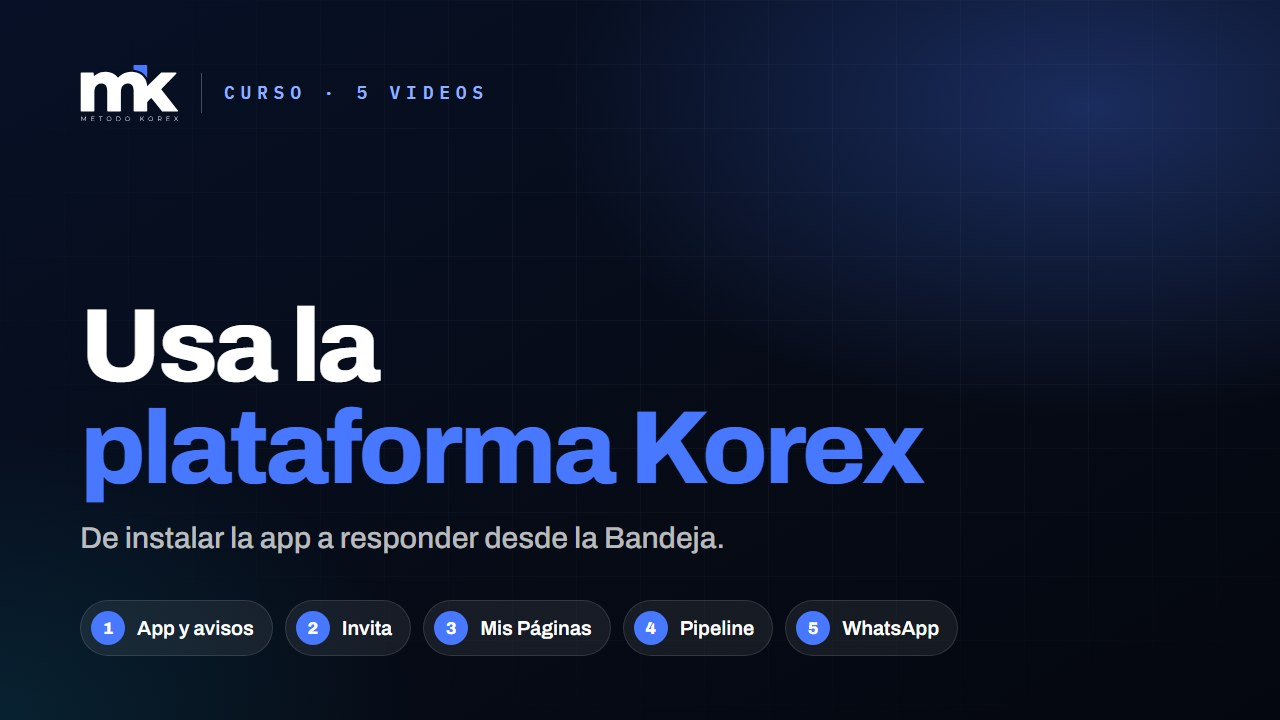
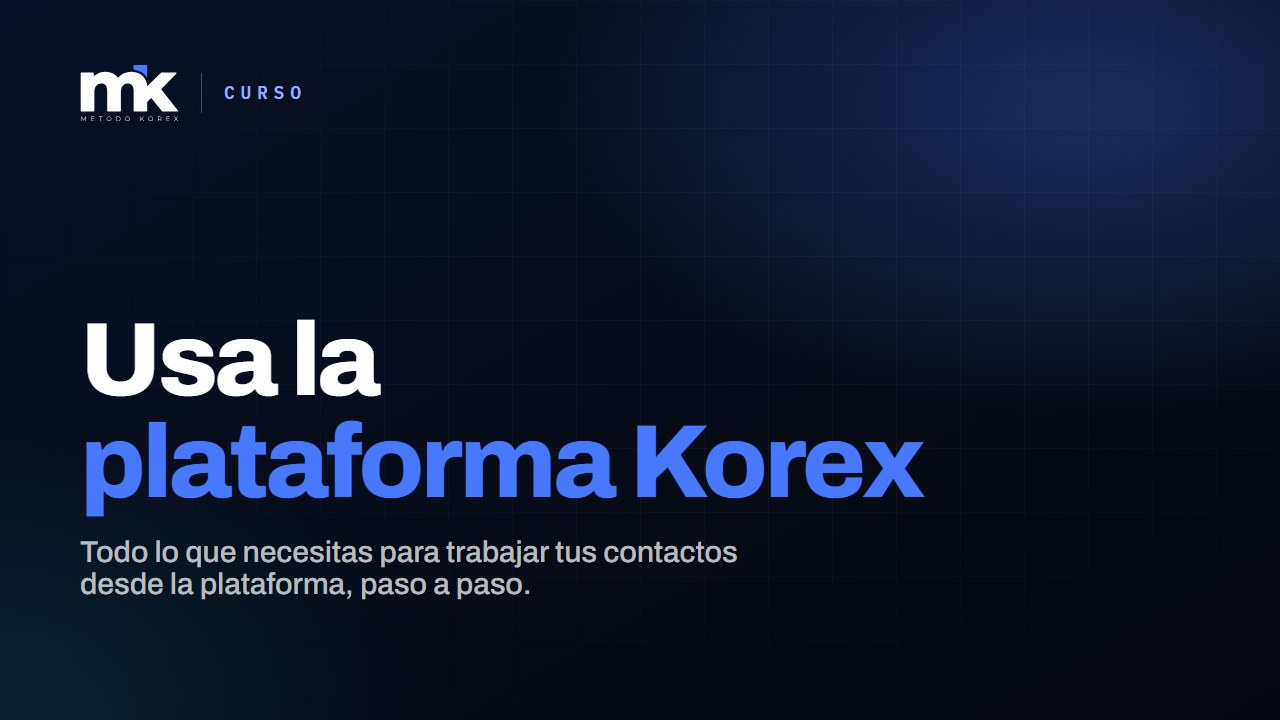
Academia: ordenar links, guiones y cursos con flechas; descripción con links al abrir el video; portada sin conteo

Changed region(s): [[0.0625, 0.4278, 0.75, 0.9167], [0.2812, 0.1222, 0.375, 0.1528]]

diff --git a/academia/academia.js b/academia/academia.js
@@ -116,7 +116,7 @@
   function cursos() { return grupos(de("video").map(function (v) { return Object.assign({}, v, { grupo: cursoDe(v) }); })).map(function (g) { return g[0]; }); }
   function lecciones(nombre) { return de("video").filter(function (v) { return cursoDe(v) === nombre; }); }
   // Portadas diseñadas por curso (archivos en /academia/portadas/). Sin portada → imagen del primer video que tenga.
-  var PORTADAS = { "Usa la plataforma Korex": "/academia/portadas/usa-la-plataforma-korex.jpg" };
+  var PORTADAS = { "Usa la plataforma Korex": "/academia/portadas/usa-la-plataforma-korex.jpg?v=2" };
   function portada(c) { var ls = lecciones(c); return { miniatura: PORTADAS[c] || (ls.filter(function (v) { return v.miniatura; })[0] || {}).miniatura }; }
   function poster(v, extra) { return '<div class="poster"' + (v && v.miniatura ? ' style="background-image:url(\'' + esc(v.miniatura) + '\'),linear-gradient(140deg,#0a1730,#18306a)"' : "") + ">" + (extra || "") + "</div>"; }
   function nVideos(n) { return n + (n === 1 ? " video" : " videos"); }
@@ -139,13 +139,13 @@
   function vCurso(c) {
     var ls = lecciones(c);
     var h = '<button class="back" data-volver type="button">' + ic("back") + "Cursos</button>" +
-      '<div class="h2"><h2>' + esc(c) + "</h2>" + (admin() ? '<button class="btn sec" data-renombrar type="button">' + ic("pen") + "Renombrar curso</button>" : "") + "</div>" +
+      '<div class="h2"><h2>' + esc(c) + "</h2>" + (admin() ? flechasGrupo("video", c) + '<button class="btn sec" data-renombrar type="button">' + ic("pen") + "Renombrar curso</button>" : "") + "</div>" +
       '<p class="intro">' + nVideos(ls.length) + ". Míralos en orden.</p>";
     h += '<ol class="lecs">';
     ls.forEach(function (v, i) {
       h += '<li class="lec"><button class="lec-b" type="button" data-ver="' + esc(v.id) + '">' + '<span class="lec-n">' + (i + 1) + "</span>" +
         poster(v, '<span class="play">' + ic("play") + "</span>") +
-        '<span class="lec-t"><b>' + esc(v.titulo) + "</b>" + (v.descripcion ? "<span>" + esc(v.descripcion) + "</span>" : "") + "</span></button>" +
+        '<span class="lec-t"><b>' + esc(v.titulo) + "</b>" + (v.descripcion ? "<span>" + esc(String(v.descripcion).split("\n")[0]) + "</span>" : "") + "</span></button>" +
         (admin() ? '<div class="lec-a">' +
           (i > 0 ? '<button class="mini ico" data-mover="' + esc(v.id) + '" data-dir="-1" title="Subir">' + ic("arr") + "</button>" : "") +
           (i < ls.length - 1 ? '<button class="mini ico" data-mover="' + esc(v.id) + '" data-dir="1" title="Bajar">' + ic("abj") + "</button>" : "") +
@@ -157,20 +157,49 @@
     return h;
   }
 
-  // Reordena dentro del curso: renumera todo el curso (10, 20, 30…) a partir de su primer orden.
-  function mover(id, dir) {
-    var v = porId(id); if (!v) return;
-    var ls = lecciones(cursoDe(v)), i = ls.indexOf(v), j = i + dir;
-    if (j < 0 || j >= ls.length) return;
-    var base = Math.min.apply(null, ls.map(function (x) { return x.orden || 0; }));
-    ls.splice(i, 1); ls.splice(j, 0, v);
+  /* ---------------- ordenar (admin) ----------------
+     Videos, links y guiones: el orden de los grupos lo da su primer elemento.
+     Al mover, se renumera la sección entera: grupo 1 → 1000, 1010…; grupo 2 → 2000…  */
+  function claveG(x) { return x.seccion === "video" ? cursoDe(x) : (x.grupo || "Otros"); }
+  function gruposSec(sec) {
+    var m = {}, o = [];
+    de(sec).forEach(function (x) { var g = claveG(x); if (!m[g]) { m[g] = []; o.push(g); } m[g].push(x); });
+    return o.map(function (g) { return [g, m[g]]; });
+  }
+  function renumerar(gs) {
     var cambios = [];
-    ls.forEach(function (x, k) { var o = base + k * 10; if (x.orden !== o) { x.orden = o; cambios.push({ id: x.id, titulo: x.titulo, orden: o }); } });
+    gs.forEach(function (g, gi) { g[1].forEach(function (x, ii) { var o = (gi + 1) * 1000 + ii * 10; if (x.orden !== o) { x.orden = o; cambios.push({ id: x.id, titulo: x.titulo, orden: o }); } }); });
     S.items.sort(function (a, b) { return (a.orden || 0) - (b.orden || 0); });
     render();
     Promise.all(cambios.map(function (it) { return api("guardar", { item: it }); })).then(function (rs) {
       if (rs.some(function (r) { return !r.ok; })) { toast("No se pudo guardar el orden."); recargar(); }
-    });
+    }, function () { toast("No se pudo guardar el orden."); recargar(); });
+  }
+  function mover(id, dir) {
+    var v = porId(id); if (!v) return;
+    var gs = gruposSec(v.seccion), g = gs.filter(function (x) { return x[0] === claveG(v); })[0];
+    var ls = g[1], i = ls.indexOf(v), j = i + dir;
+    if (j < 0 || j >= ls.length) return;
+    ls.splice(i, 1); ls.splice(j, 0, v);
+    renumerar(gs);
+  }
+  function moverGrupo(sec, nombre, dir) {
+    var gs = gruposSec(sec), i = -1;
+    gs.forEach(function (g, k) { if (g[0] === nombre) i = k; });
+    var j = i + dir; if (i < 0 || j < 0 || j >= gs.length) return;
+    var g = gs.splice(i, 1)[0]; gs.splice(j, 0, g);
+    renumerar(gs);
+  }
+  // Flechas: item (data-mover) o grupo (data-mgrupo). Ocultas mientras se busca.
+  function flechas(attr, i, n, extra) {
+    if (!admin() || S.q || n < 2) return "";
+    return (i > 0 ? '<button class="mini ico" ' + attr + ' data-dir="-1" ' + (extra || "") + ' title="Subir" type="button">' + ic("arr") + "</button>" : "") +
+      (i < n - 1 ? '<button class="mini ico" ' + attr + ' data-dir="1" ' + (extra || "") + ' title="Bajar" type="button">' + ic("abj") + "</button>" : "");
+  }
+  function flechasGrupo(sec, nombre) {
+    var gs = gruposSec(sec), i = -1; gs.forEach(function (g, k) { if (g[0] === nombre) i = k; });
+    var f = flechas('data-mgrupo="' + esc(nombre) + '"', i, gs.length, 'data-sec="' + sec + '"');
+    return f ? '<span class="gmove" title="Mover grupo">' + f + "</span>" : "";
   }
 
   function renombrar(c) {
@@ -245,9 +274,9 @@
     h += '<div class="gg">';
     gs.forEach(function (g, i) {
       var open = S.q || S.abiertos[g[0]] || (S.abiertos[g[0]] === undefined && i === 0);
-      h += '<section class="grp' + (open ? " open" : "") + '"><button class="grp-h" data-grupo="' + esc(g[0]) + '" type="button">' + ic("chev", "chev") + esc(g[0]) + "<em>" + g[1].length + '</em></button><div class="grp-b">';
-      g[1].forEach(function (x) {
-        h += '<article class="gcard"><div class="gcard-h"><b>' + esc(x.titulo) + "</b>" +
+      h += '<section class="grp' + (open ? " open" : "") + '"><div class="grp-top"><button class="grp-h" data-grupo="' + esc(g[0]) + '" type="button">' + ic("chev", "chev") + esc(g[0]) + "<em>" + g[1].length + "</em></button>" + flechasGrupo("guion", g[0]) + '</div><div class="grp-b">';
+      g[1].forEach(function (x, xi) {
+        h += '<article class="gcard"><div class="gcard-h"><b>' + esc(x.titulo) + "</b>" + flechas('data-mover="' + esc(x.id) + '"', xi, g[1].length) +
           (admin() ? '<button class="mini ico" data-editar="' + esc(x.id) + '" title="Editar" type="button">' + ic("pen") + '</button><button class="mini ico del" data-borrar="' + esc(x.id) + '" title="Borrar" type="button">' + ic("trash") + "</button>" : "") +
           '<button class="mini btn-copy" data-copiar="' + esc(x.id) + '" type="button">' + ic("copy") + "Copiar</button></div>" +
           '<p class="gtxt">' + esc(x.texto) + "</p></article>";
@@ -263,10 +292,11 @@
     var gs = grupos(l);
     if (!gs.length) return h + '<div class="empty">' + (S.q ? "No hay links con esa búsqueda." : "Todavía no hay links.") + "</div>";
     gs.forEach(function (g) {
-      h += '<section class="lgrp"><div class="lgrp-h">' + esc(g[0]) + "</div>";
-      g[1].forEach(function (x) {
+      h += '<section class="lgrp"><div class="lgrp-h"><span>' + esc(g[0]) + "</span>" + flechasGrupo("link", g[0]) + "</div>";
+      g[1].forEach(function (x, xi) {
         h += '<div class="lrow"><span class="lic">' + ic("link") + '</span><div class="lt"><b>' + esc(x.titulo) + "</b>" + (x.descripcion ? "<span>" + esc(x.descripcion) + "</span>" : "") + "<code>" + esc(corta(x.url)) + "</code></div>" +
           '<div class="la"><a class="mini" href="' + esc(x.url) + '" target="_blank" rel="noopener">' + ic("ext") + 'Abrir</a><button class="mini" data-copiar="' + esc(x.id) + '" type="button">' + ic("copy") + "Copiar</button>" +
+          flechas('data-mover="' + esc(x.id) + '"', xi, g[1].length) +
           (admin() ? '<button class="mini ico" data-editar="' + esc(x.id) + '" title="Editar" type="button">' + ic("pen") + '</button><button class="mini ico del" data-borrar="' + esc(x.id) + '" title="Borrar" type="button">' + ic("trash") + "</button>" : "") +
           "</div></div>";
       });
@@ -277,11 +307,12 @@
 
   /* ---------------- eventos ---------------- */
   document.addEventListener("click", function (e) {
-    var t = e.target.closest("[data-tab],[data-abrir],[data-volver],[data-filtro],[data-ver],[data-bajar],[data-copiar],[data-grupo],[data-nuevo],[data-editar],[data-borrar],[data-subir],[data-curso],[data-mover],[data-renombrar]");
+    var t = e.target.closest("[data-tab],[data-abrir],[data-volver],[data-filtro],[data-ver],[data-bajar],[data-copiar],[data-grupo],[data-nuevo],[data-editar],[data-borrar],[data-subir],[data-curso],[data-mover],[data-mgrupo],[data-renombrar]");
     if (!t || !$("#app").contains(t)) return;
     var d = t.dataset;
     if (d.curso) { S.curso = d.curso; S.q = ""; render(); window.scrollTo(0, 0); }
     else if (d.mover) mover(d.mover, +d.dir);
+    else if (d.mgrupo) moverGrupo(d.sec, d.mgrupo, +d.dir);
     else if ("renombrar" in d) renombrar(S.curso);
     else if (d.tab) { S.tab = d.tab; S.carpeta = null; S.curso = null; S.q = ""; try { sessionStorage.setItem("kx-academia-tab", d.tab); } catch (x) {} render(); window.scrollTo(0, 0); }
     else if (d.abrir) { S.carpeta = d.abrir; S.filtro = "todo"; S.q = ""; render(); window.scrollTo(0, 0); }
@@ -290,7 +321,7 @@
     else if (d.ver) ver(porId(d.ver));
     else if (d.bajar) bajar(porId(d.bajar), t);
     else if (d.copiar) copiar(porId(d.copiar), t);
-    else if (d.grupo) { var sec = t.parentNode; var abierto = !sec.classList.contains("open"); sec.classList.toggle("open", abierto); S.abiertos[d.grupo] = abierto; }
+    else if (d.grupo) { var sec = t.closest(".grp"); var abierto = !sec.classList.contains("open"); sec.classList.toggle("open", abierto); S.abiertos[d.grupo] = abierto; }
     else if (d.nuevo) formulario(d.nuevo, null);
     else if (d.editar) { var it = porId(d.editar); if (it) formulario(it.seccion, it); }
     else if (d.borrar) borrar(porId(d.borrar));
@@ -319,6 +350,12 @@
     if (/iframe\.mediadelivery\.net\/(embed|play)\//.test(u)) return u.replace("/play/", "/embed/") + (u.indexOf("?") > -1 ? "&" : "?") + "autoplay=true&preload=true&responsive=true";
     return u;
   }
+  // Texto con saltos de línea y links que se pueden tocar (se escapa primero).
+  function rico(t) {
+    return esc(t).replace(/(https?:\/\/[^\s<]+?)([.,;:!?)]*)(?=\s|$|<)/g, function (m, u, cola) {
+      return '<a href="' + u + '" target="_blank" rel="noopener">' + u.replace(/^https?:\/\/(www\.)?/, "") + "</a>" + cola;
+    }).replace(/\n/g, "<br>");
+  }
   function ver(x) {
     if (!x) return;
     var cuerpo = "", pie = "";
@@ -334,8 +371,9 @@
     if (x.seccion === "archivo" && x.descargable !== false && (x.descarga || x.url)) pie = '<div class="vw-f"><button class="btn" data-vbajar type="button">' + ic("down") + "Descargar</button></div>";
     var ls = x.seccion === "video" ? lecciones(cursoDe(x)) : [], pos = ls.indexOf(x);
     if (ls.length > 1) pie = '<div class="vw-f vw-nav"><button class="btn sec" data-vir="' + (pos - 1) + '" type="button"' + (pos > 0 ? "" : " disabled") + ">" + ic("back") + 'Anterior</button><span class="vw-pos">Video ' + (pos + 1) + " de " + ls.length + '</span><button class="btn" data-vir="' + (pos + 1) + '" type="button"' + (pos < ls.length - 1 ? "" : " disabled") + ">Siguiente" + ic("chev") + "</button></div>";
-    $("#layer").innerHTML = '<div class="viewer" role="dialog" aria-modal="true" aria-label="' + esc(x.titulo) + '"><div class="vw-h"><b>' + esc(x.titulo) + '</b><button class="mini ico" data-vcerrar type="button" aria-label="Cerrar">' + ic("x") + '</button></div><div class="vw-b">' + cuerpo + "</div>" +
-      (x.seccion === "video" && x.descripcion ? '<p class="vw-desc">' + esc(x.descripcion) + "</p>" : "") + pie + "</div>";
+    var conDesc = x.seccion === "video" && x.descripcion;
+    $("#layer").innerHTML = '<div class="viewer' + (conDesc ? " cd" : "") + '" role="dialog" aria-modal="true" aria-label="' + esc(x.titulo) + '"><div class="vw-h"><b>' + esc(x.titulo) + '</b><button class="mini ico" data-vcerrar type="button" aria-label="Cerrar">' + ic("x") + '</button></div><div class="vw-b">' + cuerpo + "</div>" +
+      (conDesc ? pie + '<div class="vw-desc">' + rico(x.descripcion) + "</div>" : pie) + "</div>";
     document.body.style.overflow = "hidden";
     $("[data-vcerrar]").onclick = cerrar;
     var b = $("[data-vbajar]"); if (b) b.onclick = function () { bajar(x, b); };
@@ -417,7 +455,7 @@
     else if (sec === "carpeta") c = campo("fTitulo", "Nombre de la carpeta", it.titulo) + campo("fDesc", "Descripción (opcional)", it.descripcion);
     else if (sec === "video") {
       c = campo("fCurso", "Curso", nuevo ? (S.curso || "") : cursoDe(it), { lista: cursos(), ph: "Ej.: Primeros pasos", ayuda: "Elige un curso existente o escribe uno nuevo para crearlo." }) +
-        campo("fTitulo", "Título del video", it.titulo) + campo("fDesc", "Descripción (opcional)", it.descripcion);
+        campo("fTitulo", "Título del video", it.titulo) + campo("fDesc", "Descripción (opcional)", it.descripcion, { area: 1, ayuda: "Se ve debajo del video al abrirlo. Pega links a recursos o páginas: quedan para tocar. La primera línea sale también en la lista del curso." });
       if (nuevo) c += '<div class="opt" id="fModo"><button type="button" class="on" data-m="archivo">Subir un video</button><button type="button" data-m="link">Pegar un link</button></div>' +
         '<div id="mArchivo"><div class="drop" id="fDrop">' + ic("up") + '<b>Elige el video</b><small>MP4 o MOV. Se ve en la Academia y no se puede descargar.</small><input type="file" id="fFile" accept="video/*"></div></div>' +
         '<div id="mLink" hidden>' + campo("fUrl", "Link del video", "", { ph: "YouTube, Vimeo, Bunny o .mp4" }) + "</div>" +

diff --git a/academia/index.html b/academia/index.html
@@ -10,7 +10,7 @@
 <link rel="preconnect" href="https://fonts.googleapis.com">
 <link rel="preconnect" href="https://fonts.gstatic.com" crossorigin>
 <link rel="stylesheet" href="https://fonts.googleapis.com/css2?family=Archivo:wght@400;500;600;700&family=IBM+Plex+Mono:wght@500;600&family=Instrument+Serif&display=swap">
-<link rel="stylesheet" href="/academia/academia.css?v=6">
+<link rel="stylesheet" href="/academia/academia.css?v=8">
 </head>
 <body>
 <svg width="0" height="0" style="position:absolute" aria-hidden="true"><symbol id="mk" viewBox="283 389 515 302"><path fill="#4878ff" d="m598.95,429.17c-10.38-5.31-21.79-8.67-34.14-10.07-1.83-.21-3.23-1.72-3.23-3.56v-18.13c0-1.99,1.61-3.61,3.61-3.61h64.06c1.99,0,3.61,1.61,3.61,3.61v64.79c0,.23-.29.3-.4.1-8.13-14.72-19.42-25.86-33.5-33.13Z"/><path fill="currentColor" d="m789.86,636.8h-77.25c-1.08,0-2.11-.49-2.78-1.34l-53.34-66.8c-1.33-1.67-3.82-1.8-5.32-.27l-6,6.1-5.77,5.89-5.77,5.89-.77.77v46.01c0,1.97-1.59,3.56-3.56,3.56h-63.42c-1.97,0-3.56-1.59-3.56-3.56v-101.08c0-4.31-.23-8.27-.73-11.89-1.15-8.54-3.62-15.16-7.5-19.82-5.5-6.62-13.01-9.97-22.51-9.97-6.73,0-12.89,1.66-18.4,4.89-5.5,3.27-9.74,8.2-12.74,14.82-3,6.66-4.5,15.2-4.5,25.71v97.35c0,1.97-1.59,3.56-3.56,3.56h-64.15c-1.97,0-3.56-1.59-3.56-3.56v-101.08c0-14.51-2.69-25.09-8.08-31.71-5.39-6.62-12.93-9.97-22.71-9.97-7,0-13.2,1.66-18.55,4.89-5.39,3.27-9.66,8.2-12.78,14.82-3.12,6.66-4.7,15.2-4.7,25.71v97.35c0,1.97-1.59,3.56-3.56,3.56h-64.15c-1.97,0-3.56-1.59-3.56-3.56v-196.2c0-1.97,1.59-3.56,3.56-3.56h60.81c1.97,0,3.56,1.59,3.56,3.56v9.37c0,3.07,3.57,4.64,5.91,2.65,3.51-2.98,7.28-5.62,11.33-7.92,13.01-7.35,27.52-11.05,43.53-11.05,18.24,0,34.33,4.7,48.22,14.05,5.73,3.88,10.64,8.63,14.82,14.27,1.31,1.77,3.98,1.89,5.45.26,5-5.54,10.73-10.39,17.21-14.53,14.66-9.35,31.48-14.05,50.49-14.05,3.46,0,6.85.15,10.12.5,11.74,1.04,22.4,4.08,32.06,9.04,12.39,6.39,22.17,16.2,29.29,29.48,5.2,9.7,8.51,21.44,9.93,35.29v.08l5.2-5.04,5.12-4.96,61.42-59.8c.66-.65,1.56-1.01,2.48-1.01h74.58c3.14,0,4.74,3.78,2.56,6.04l-76.23,78.71c-1.24,1.28-1.34,3.28-.24,4.68l84.92,108.14c1.83,2.34.17,5.76-2.8,5.76Z"/><path fill="currentColor" d="m290.08,685.99v-23.17h2.02l10.59,18.07h-1.06l10.49-18.07h2.02v23.17h-2.35v-19.5h.56l-9.66,16.55h-1.16l-9.73-16.55h.63v19.5h-2.35Z"/><path fill="currentColor" d="m344.66,683.87h13.94v2.12h-16.38v-23.17h15.89v2.12h-13.44v18.93Zm-.26-10.69h12.25v2.09h-12.25v-2.09Z"/><path fill="currentColor" d="m389.38,685.99v-21.05h-8.14v-2.12h18.73v2.12h-8.14v21.05h-2.45Z"/><path fill="currentColor" d="m434.2,686.19c-1.75,0-3.36-.29-4.85-.88-1.49-.58-2.78-1.41-3.87-2.48-1.09-1.07-1.94-2.32-2.55-3.74-.61-1.42-.91-2.98-.91-4.68s.3-3.26.91-4.69c.61-1.42,1.46-2.67,2.55-3.74s2.38-1.9,3.85-2.48c1.48-.58,3.1-.88,4.87-.88s3.35.29,4.83.88c1.47.59,2.76,1.41,3.85,2.47,1.09,1.06,1.94,2.31,2.55,3.74s.91,3,.91,4.7-.3,3.26-.91,4.7-1.46,2.68-2.55,3.74c-1.09,1.06-2.38,1.88-3.85,2.46-1.48.59-3.09.88-4.83.88Zm0-2.18c1.39,0,2.67-.24,3.85-.71,1.18-.47,2.21-1.15,3.08-2.02.87-.87,1.55-1.89,2.04-3.04.48-1.16.73-2.43.73-3.82s-.24-2.66-.73-3.82c-.49-1.16-1.16-2.17-2.04-3.04-.87-.87-1.9-1.54-3.08-2.02-1.18-.47-2.46-.71-3.85-.71s-2.68.24-3.87.71c-1.19.48-2.22,1.15-3.1,2.02-.87.87-1.56,1.89-2.05,3.04-.5,1.16-.74,2.43-.74,3.82s.25,2.64.74,3.81,1.18,2.19,2.05,3.06c.87.87,1.9,1.55,3.1,2.02,1.19.47,2.48.71,3.87.71Z"/><path fill="currentColor" d="m472.36,685.99v-23.17h9.43c2.47,0,4.64.49,6.5,1.47,1.87.98,3.32,2.35,4.36,4.09,1.03,1.74,1.56,3.75,1.56,6.02s-.52,4.28-1.56,6.02c-1.04,1.74-2.49,3.11-4.36,4.09-1.86.98-4.03,1.47-6.5,1.47h-9.43Zm2.45-2.12h6.85c2.05,0,3.83-.4,5.35-1.21,1.51-.8,2.69-1.92,3.52-3.34.84-1.42,1.26-3.06,1.26-4.92s-.42-3.52-1.26-4.93c-.84-1.41-2.01-2.52-3.52-3.33-1.51-.81-3.29-1.21-5.35-1.21h-6.85v18.93Z"/><path fill="currentColor" d="m530.35,686.19c-1.75,0-3.36-.29-4.85-.88-1.49-.58-2.78-1.41-3.87-2.48-1.09-1.07-1.94-2.32-2.55-3.74-.61-1.42-.91-2.98-.91-4.68s.3-3.26.91-4.69c.61-1.42,1.46-2.67,2.55-3.74s2.38-1.9,3.85-2.48c1.48-.58,3.1-.88,4.87-.88s3.35.29,4.83.88c1.47.59,2.76,1.41,3.85,2.47,1.09,1.06,1.94,2.31,2.55,3.74s.91,3,.91,4.7-.3,3.26-.91,4.7-1.46,2.68-2.55,3.74c-1.09,1.06-2.38,1.88-3.85,2.46-1.48.59-3.09.88-4.83.88Zm0-2.18c1.39,0,2.67-.24,3.85-.71,1.18-.47,2.21-1.15,3.08-2.02.87-.87,1.55-1.89,2.04-3.04.48-1.16.73-2.43.73-3.82s-.24-2.66-.73-3.82c-.49-1.16-1.16-2.17-2.04-3.04-.87-.87-1.9-1.54-3.08-2.02-1.18-.47-2.46-.71-3.85-.71s-2.68.24-3.87.71c-1.19.48-2.22,1.15-3.1,2.02-.87.87-1.56,1.89-2.05,3.04-.5,1.16-.74,2.43-.74,3.82s.25,2.64.74,3.81c.5,1.17,1.18,2.19,2.05,3.06.87.87,1.9,1.55,3.1,2.02,1.19.47,2.48.71,3.87.71Z"/><path fill="currentColor" d="m597.71,685.99v-23.17h2.45v23.17h-2.45Zm2.12-5.76l-.1-2.98,14.03-14.43h2.81l-10.23,10.73-1.39,1.49-5.13,5.2Zm14.53,5.76l-10-11.52,1.66-1.79,11.25,13.31h-2.91Z"/><path fill="currentColor" d="m651.07,686.19c-1.75,0-3.36-.29-4.85-.88-1.49-.58-2.78-1.41-3.87-2.48-1.09-1.07-1.94-2.32-2.55-3.74-.61-1.42-.91-2.98-.91-4.68s.3-3.26.91-4.69c.61-1.42,1.46-2.67,2.55-3.74s2.38-1.9,3.85-2.48c1.48-.58,3.1-.88,4.87-.88s3.35.29,4.83.88c1.47.59,2.76,1.41,3.85,2.47,1.09,1.06,1.94,2.31,2.55,3.74s.91,3,.91,4.7-.3,3.26-.91,4.7-1.46,2.68-2.55,3.74c-1.09,1.06-2.38,1.88-3.85,2.46-1.48.59-3.09.88-4.83.88Zm0-2.18c1.39,0,2.67-.24,3.85-.71,1.18-.47,2.21-1.15,3.08-2.02.87-.87,1.55-1.89,2.04-3.04.48-1.16.73-2.43.73-3.82s-.24-2.66-.73-3.82c-.49-1.16-1.16-2.17-2.04-3.04-.87-.87-1.9-1.54-3.08-2.02-1.18-.47-2.46-.71-3.85-.71s-2.68.24-3.87.71c-1.19.48-2.22,1.15-3.1,2.02-.87.87-1.56,1.89-2.05,3.04-.5,1.16-.74,2.43-.74,3.82s.25,2.64.74,3.81c.5,1.17,1.18,2.19,2.05,3.06.87.87,1.9,1.55,3.1,2.02,1.19.47,2.48.71,3.87.71Z"/><path fill="currentColor" d="m689.23,685.99v-23.17h8.67c1.96,0,3.65.32,5.07.94,1.41.63,2.5,1.53,3.26,2.72.76,1.18,1.14,2.61,1.14,4.29s-.38,3.04-1.14,4.22c-.76,1.18-1.85,2.09-3.26,2.72-1.41.63-3.1.94-5.07.94h-7.31l1.09-1.13v8.47h-2.45Zm2.45-8.28l-1.09-1.16h7.25c2.32,0,4.08-.51,5.28-1.52,1.2-1.01,1.81-2.44,1.81-4.27s-.6-3.29-1.81-4.3c-1.2-1.01-2.96-1.52-5.28-1.52h-7.25l1.09-1.16v13.94Zm13.37,8.28l-5.96-8.41h2.65l5.99,8.41h-2.68Z"/><path fill="currentColor" d="m736.14,683.87h13.94v2.12h-16.38v-23.17h15.89v2.12h-13.44v18.93Zm-.26-10.69h12.25v2.09h-12.25v-2.09Z"/><path fill="currentColor" d="m772.84,685.99l9.5-12.84v1.89l-8.93-12.21h2.81l7.51,10.19-1.09.03,7.52-10.23h2.65l-8.84,12.05v-1.72l9.47,12.84h-2.85l-8.01-10.89h1.03l-7.94,10.89h-2.82Z"/></symbol></svg>
@@ -45,6 +45,6 @@
 </div>
 <div id="layer"></div>
 
-<script src="/academia/academia.js?v=6"></script>
+<script src="/academia/academia.js?v=8"></script>
 </body>
 </html>

diff --git a/academia/academia.css b/academia/academia.css
@@ -248,3 +248,22 @@ textarea.inp{min-height:160px;padding:11px 13px;resize:vertical;line-height:1.5}
   .lec-t span{-webkit-line-clamp:1}
   .vw-nav .btn{padding:0 12px}
 }
+/* ordenar (admin) */
+.lgrp-h{display:flex;align-items:center;justify-content:space-between;gap:8px;min-height:46px;padding-top:6px;padding-bottom:6px}
+.grp-top{display:flex;align-items:center}
+.grp-top .grp-h{flex:1;min-width:0}
+.grp-top .gmove{padding-right:8px}
+.gmove{display:inline-flex;gap:2px;flex:none}
+.gmove .mini,.la .mini[data-mover],.gcard-h .mini[data-mover]{width:32px;min-height:32px;padding:0;color:var(--text-3)}
+.gmove .mini:hover,.la .mini[data-mover]:hover,.gcard-h .mini[data-mover]:hover{color:var(--accent-text);background:var(--accent-tint)}
+.la{flex-wrap:wrap}
+.h2 .gmove{margin-left:auto}
+/* descripción del video al abrirlo */
+.viewer.cd{overflow-y:auto}
+.viewer.cd .vw-b{flex:none;overflow:visible}
+.viewer.cd .vw-b video{max-height:calc(100vh - 210px);max-height:calc(100dvh - 210px)}
+.viewer.cd .vw-b .frame{width:min(100%,calc((100dvh - 210px) * 16 / 9))}
+.viewer.cd .vw-f{padding-bottom:14px}
+.vw-desc{text-align:left;width:100%;max-width:760px;font-size:15px;line-height:1.6;color:rgba(255,255,255,.82);padding:4px 16px calc(24px + env(safe-area-inset-bottom,0px));overflow-wrap:anywhere}
+.vw-desc a{color:#8fb0ff;text-decoration:underline;text-underline-offset:3px}
+.vw-desc a:hover{color:#fff}
